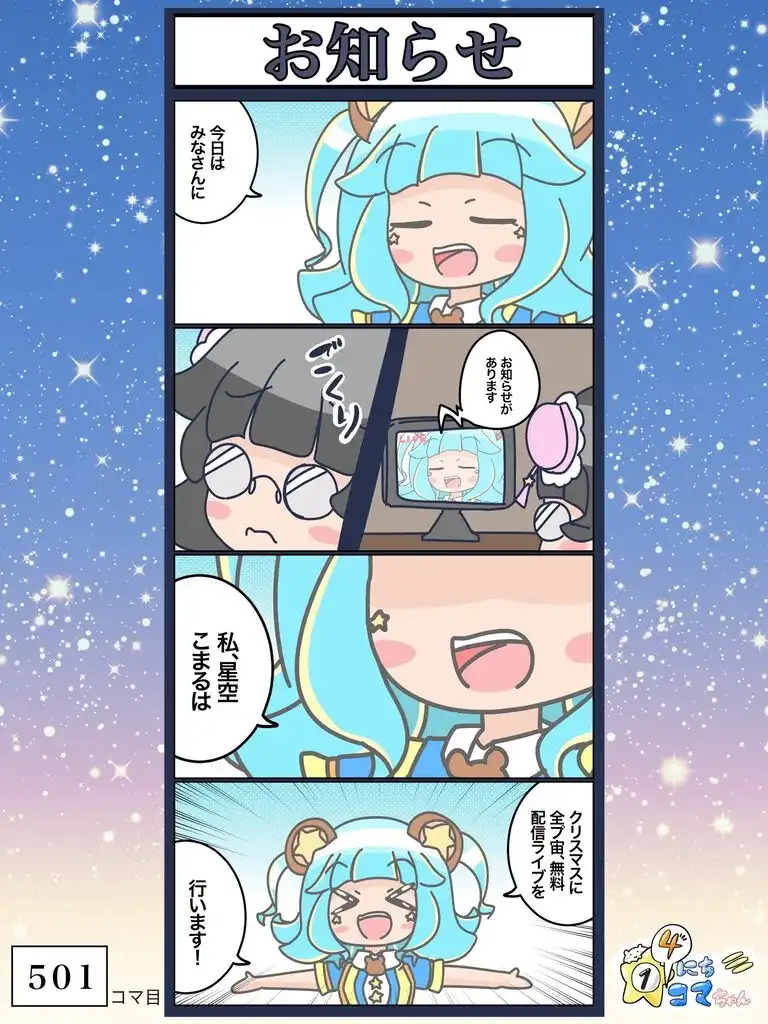
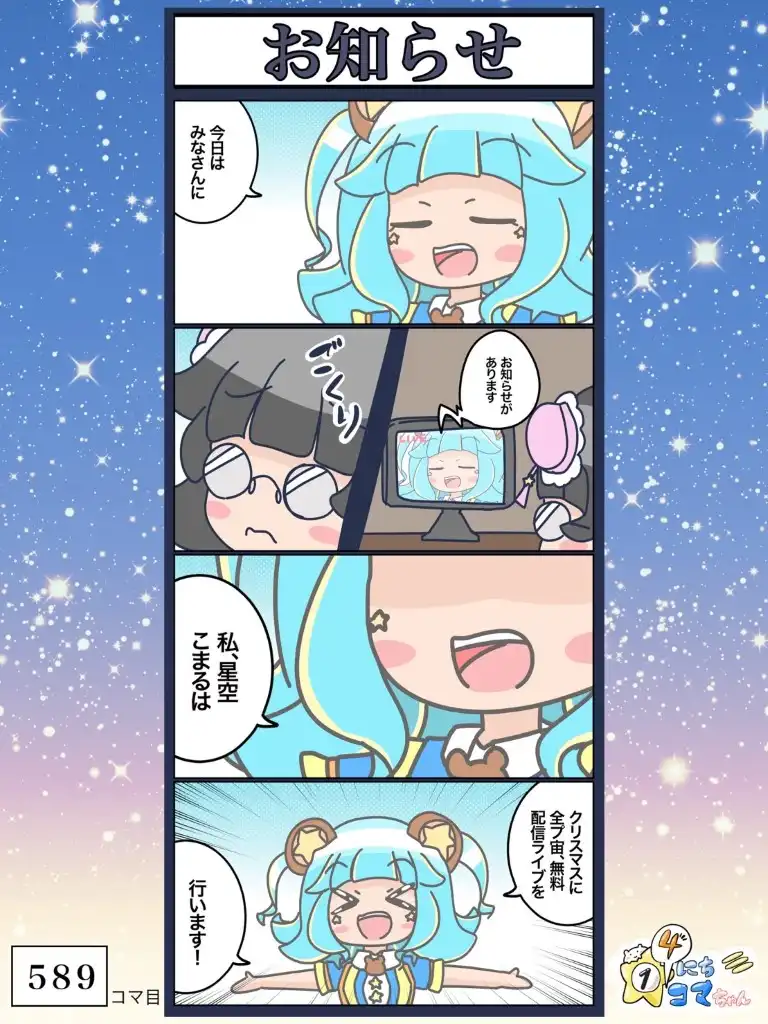
抜けコマ追加

diff --git a/pages/index.vue b/pages/index.vue
@@ -31,7 +31,7 @@
 <script>
 export default {
   data: () => ({
-    totalEndKoma: 920,
+    totalEndKoma: 925,
     massKoma: 10,
     startKoma: [],
     selectKoma: [5, 10, 20, 50, 100],
